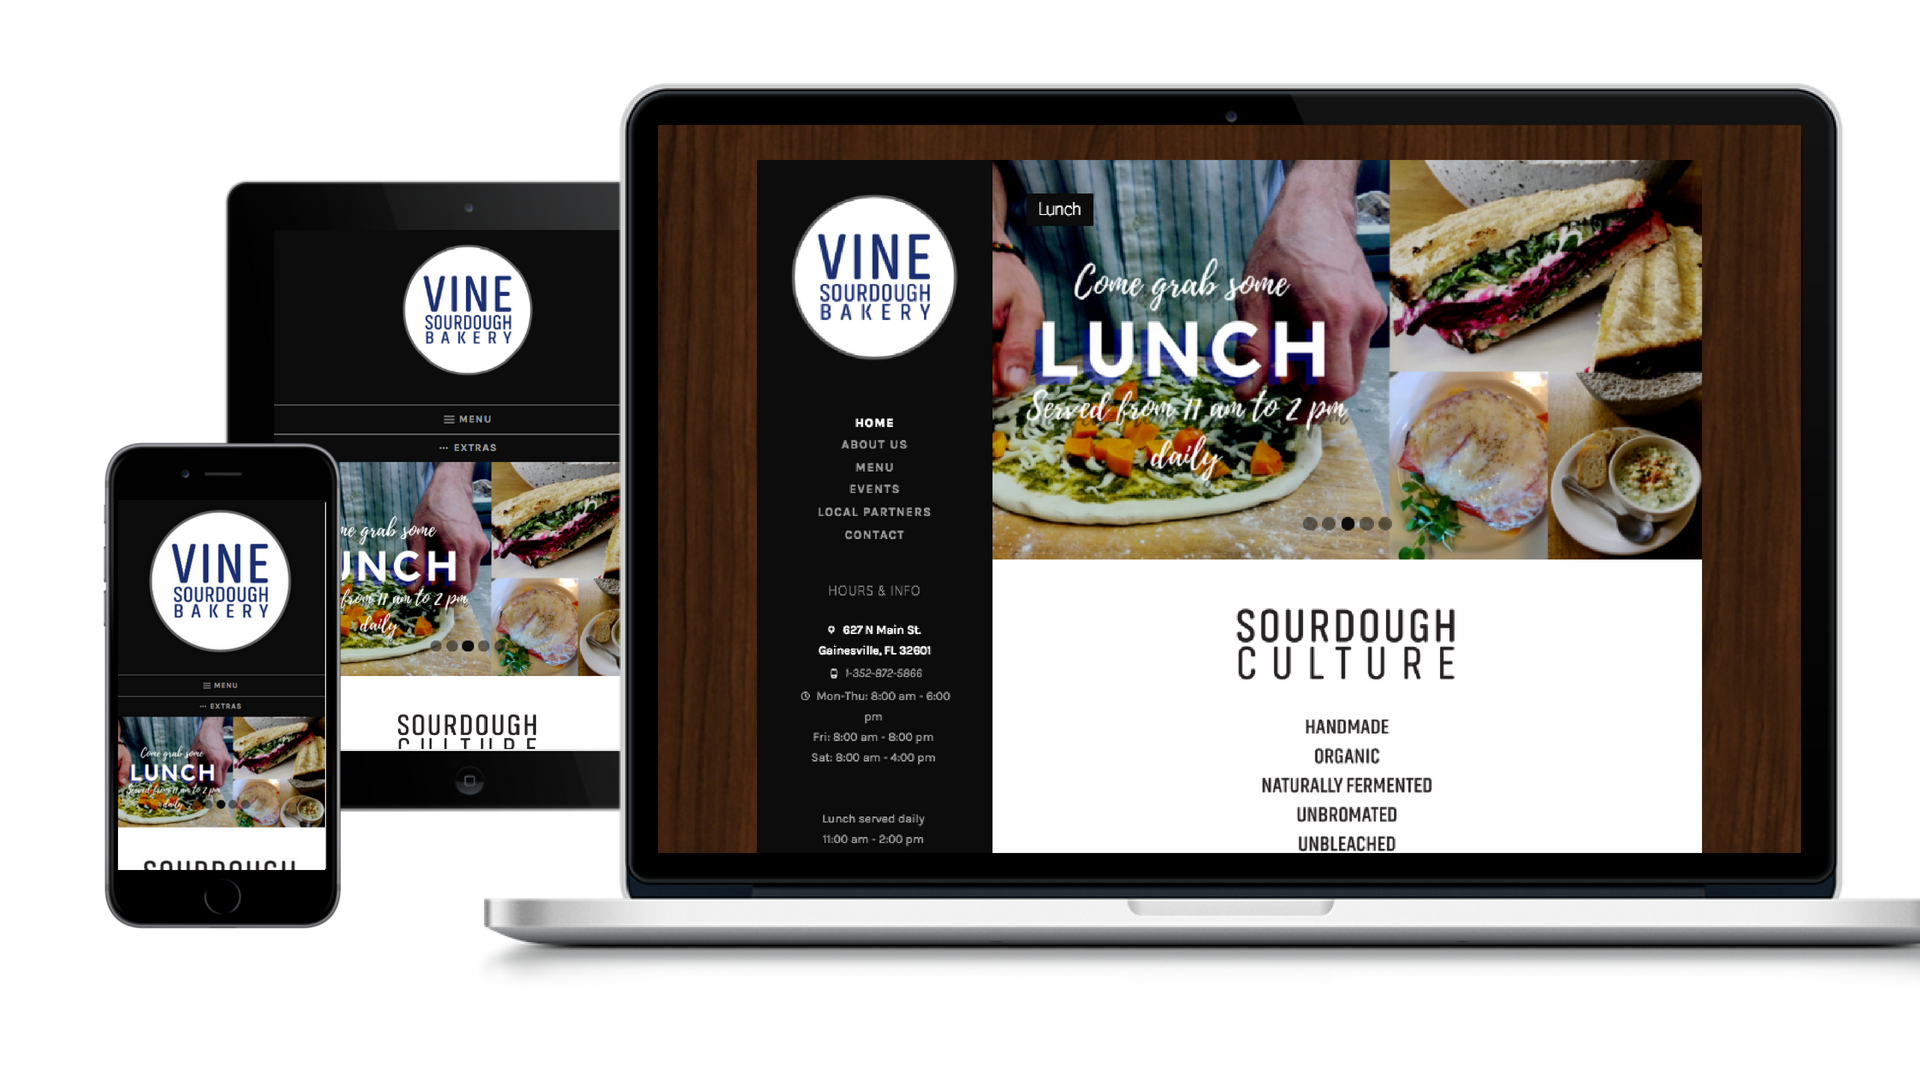
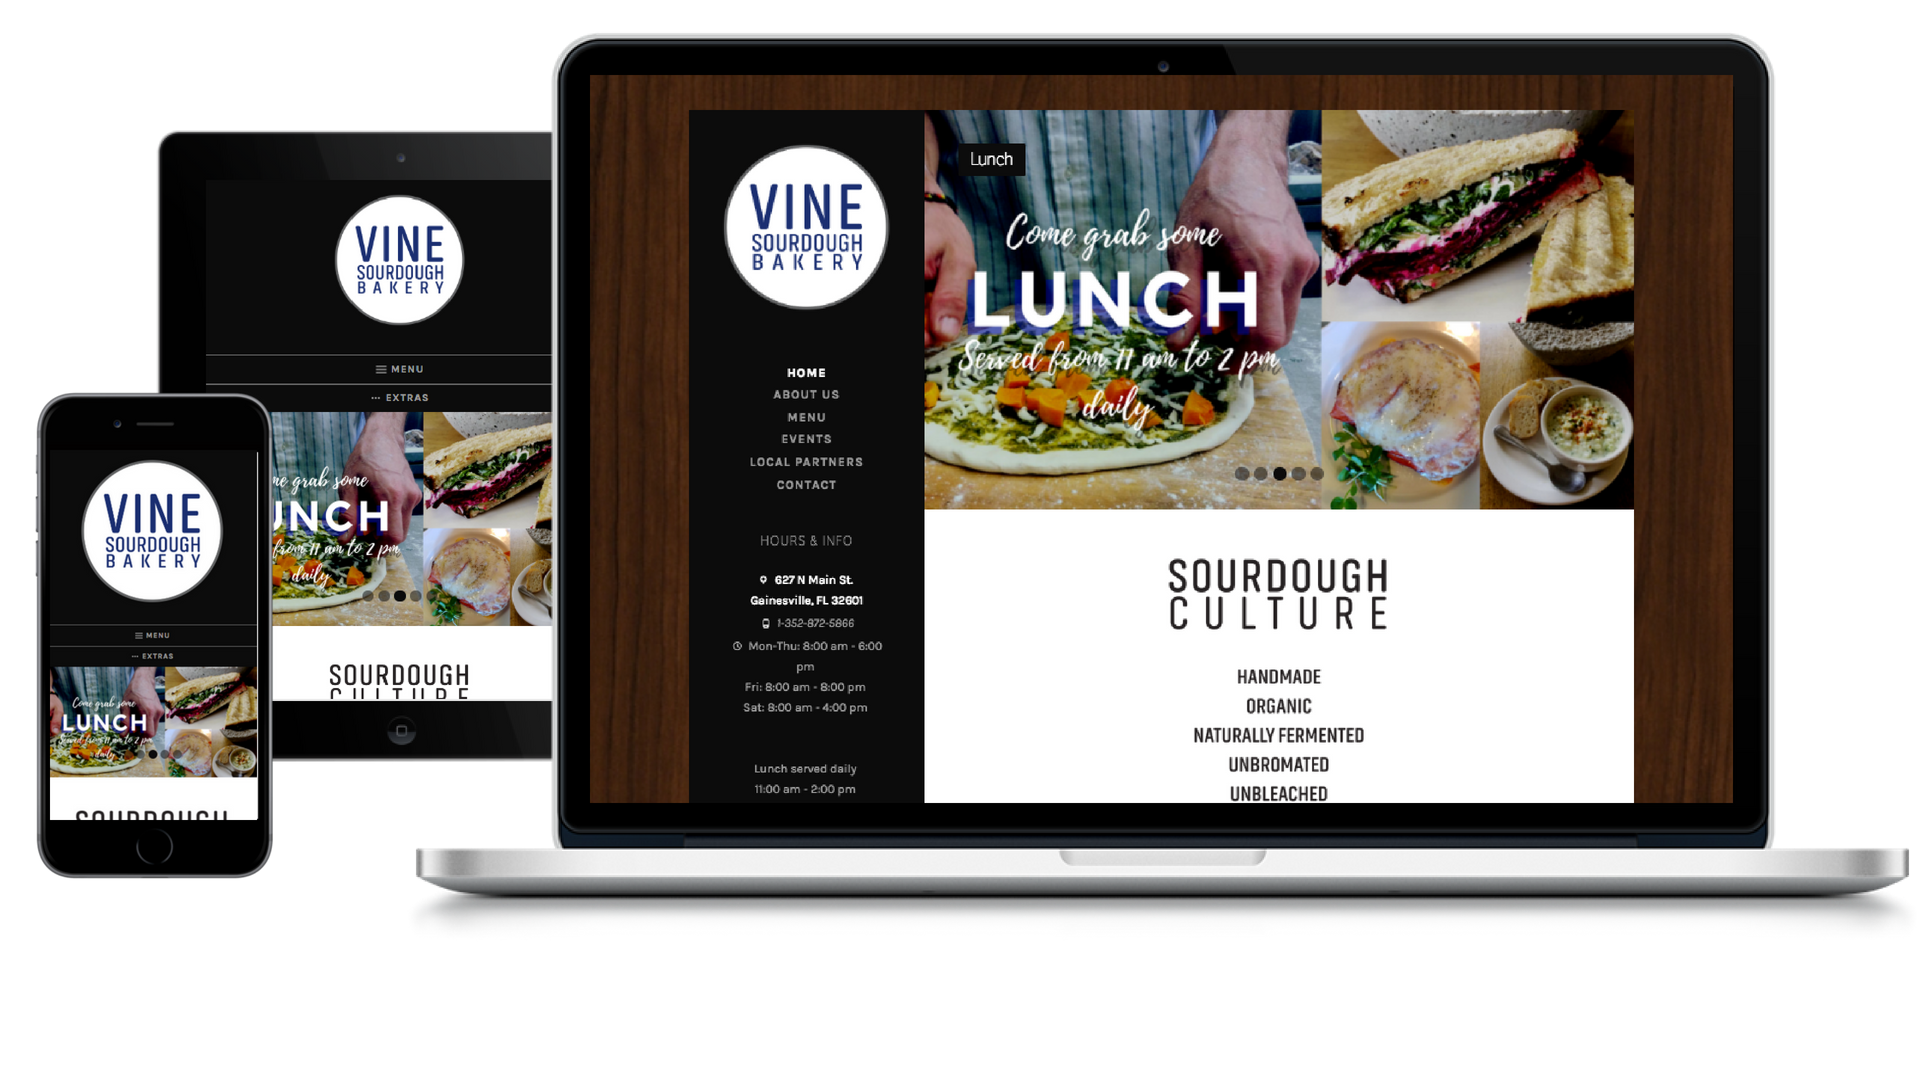
added hero styling to site pages

diff --git a/index.html b/index.html
@@ -75,37 +75,25 @@
             </div>
 
             <div class="slide" id="slide1">
-                    <div class="col-lg-12">
                             <div class="portfolio-item">
                                 <a href="./vinegainesville.html">
                                     <picture class="enlarge">
-                                        <source media="(min-width: 900px)" srcset="vine-screens.png">
+                                        <source media="(min-width: 900px)" style="width:80%;" srcset="vine-screens.png">
                                         <img src="vine-header-lg.png" alt="Wide Island View Header">
                                     </picture>
                                 </a>
-                            </div>
-                            <div class="portfolio-section">
-        
-        
-                            </div>
                         </div>
             </div>
 
             <div class="slide" id="slide2">
-                <div class="col-lg-12">
                     <div class="portfolio-item">
                         <a href="./wideislandview.html">
                             <picture class="enlarge">
-                                <source media="(min-width: 900px)" srcset="wiv-screens.png">
+                                <source media="(min-width: 900px)" style="width:80%;" srcset="wiv-screens.png">
                                 <img src="wiv-logo-round.png" alt="Wide Island View Header">
                             </picture>
                         </a>
                     </div>
-                    <div class="portfolio-section">
-
-
-                    </div>
-                </div>
             </div>
             <!--
                     <div class="slide" id="slide3">

diff --git a/vinegainesville.html b/vinegainesville.html
@@ -49,23 +49,23 @@
                     </div>
                 </div>
             </nav>
-
         </div>
         <div class="hero-body">
-            <div class="container">
-                <h1 class="title">
-                    Vine Sourdough Bakery
-                </h1>
-                <h2 class="subtitle">
-                    A website written by and for
-                    <br> JET Program participants of
-                    <Br>Hiroshima Prefecture, Japan.
-                </h2>
+            <div class="container has-text-centered">
+                    <h1 class="title">
+                            Vine Sourdough Bakery
+                        </h1>
+                        <h2 class="subtitle">
+                            A simple Wordpress website created for a local bakery in Gainesville, FL.
+                        </h2>
+                <img style="width: 80%;" src="vine-screens.png">
             </div>
         </div>
         <div class="hero-footer">
+            <div class="container">
             <a class="button'" href="http://www.wideislandview.com" target="_blank">
             </a>
+        </div>
         </div>
     </section>
 

diff --git a/wideislandview.html b/wideislandview.html
@@ -52,15 +52,16 @@
                     
         </div>
         <div class="hero-body">
-            <div class="container">
+            <div class="container has-text-centered">
                 <h1 class="title">
                     Wide Island View
                 </h1>
                 <h2 class="subtitle">
                     A website written by and for
-                    <br> JET Program participants of
-                    <Br>Hiroshima Prefecture, Japan.
+                     JET Program participants of
+                    Hiroshima Prefecture, Japan.
                 </h2>
+                <img style="width:80%;" src="wiv-screens.png">
             </div>
         </div>
         <div class="hero-footer">
